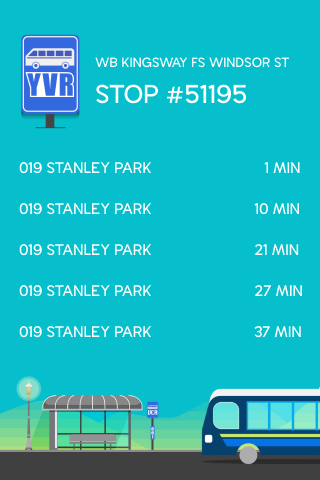
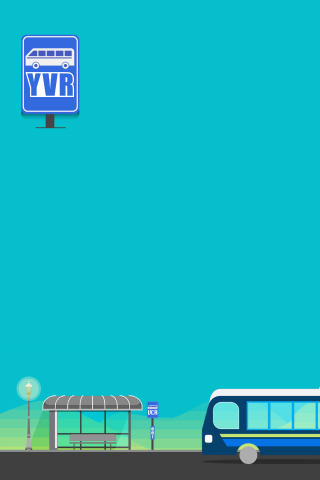
BusStopClient WIP

diff --git a/Source/MeadowSamples/BusStopClient/MeadowApp.cs b/Source/MeadowSamples/BusStopClient/MeadowApp.cs
@@ -1,13 +1,17 @@
-using Meadow;
+using BusStopClient.Models;
+using BusStopClient.Services;
+using Meadow;
 using Meadow.Devices;
 using Meadow.Foundation;
-using Meadow.Foundation.Displays.TftSpi;
+using Meadow.Foundation.Displays;
 using Meadow.Foundation.Graphics;
 using Meadow.Foundation.Leds;
+using Meadow.Gateway.WiFi;
 using Meadow.Hardware;
 using Meadow.Units;
 using SimpleJpegDecoder;
 using System;
+using System.Collections.Generic;
 using System.IO;
 using System.Reflection;
 using System.Threading.Tasks;
@@ -18,19 +22,32 @@ namespace BusStopClient
     public class MeadowApp : App<F7FeatherV1>
     {
         MicroGraphics graphics;
+        Font12x20 large;
+        Font8x12 medium;
+
+        Color dayBackground = Color.FromHex("06BFCC");
+        Color darkFont = Color.FromHex("06416C");
 
         string[] images = new string[1]
         {
             "mystop.jpg"
         };
 
-        public override Task Initialize()
+        public override async Task Initialize()
         {
             var onboardLed = new RgbPwmLed(device: Device,
                 redPwmPin: Device.Pins.OnboardLedRed,
                 greenPwmPin: Device.Pins.OnboardLedGreen,
                 bluePwmPin: Device.Pins.OnboardLedBlue);
             onboardLed.SetColor(Color.Red);
+
+            var wifi = Device.NetworkAdapters.Primary<IWiFiNetworkAdapter>();
+
+            var connectionResult = await wifi.Connect(Secrets.WIFI_NAME, Secrets.WIFI_PASSWORD, TimeSpan.FromSeconds(45));
+            if (connectionResult.ConnectionStatus != ConnectionStatus.Success)
+            {
+                throw new Exception($"Cannot connect to network: {connectionResult.ConnectionStatus}");
+            }
 
             var config = new SpiClockConfiguration(
                 new Frequency(12000, Frequency.UnitType.Kilohertz),
@@ -53,20 +70,79 @@ namespace BusStopClient
                 CurrentFont = new Font8x8()
             };
 
-            onboardLed.SetColor(Color.Green);
+            large = new Font12x20();
+            medium = new Font8x12();
 
-            return base.Initialize();
+            onboardLed.SetColor(Color.Green);
         }
 
-        public override Task Run()
+        public override async Task Run()
         {
             Console.WriteLine("Run");
 
+            DrawBackgroundAndStopInfo();
+
+            while (true) 
+            {
+                Console.WriteLine("Simulate");
+
+                var arrivals = await BusService.Instance.GetSchedulesAsync("51195");
+                DrawBusArrivals(arrivals);
+
+                await Task.Delay(TimeSpan.FromSeconds(10));
+            }
+            
+        }
+
+        void DrawBackgroundAndStopInfo() 
+        {
             DisplayJPG(0, 0, images[0]);
 
-            graphics.Show();
+            graphics.CurrentFont = medium;
 
-            return base.Run();
+            graphics.DrawText(95, 50, "WB KINGSWAY FS WINDSOR ST", darkFont);
+            graphics.DrawText(95, 85, "STOP #51195", darkFont, ScaleFactor.X2);
+
+            graphics.Show();
+        }
+
+        void DrawBusArrivals(List<Schedule> arrivals) 
+        {
+            graphics.CurrentFont = large;
+
+            graphics.DrawRectangle(15, 160, 290, 180, dayBackground, true);
+
+            if (arrivals[0] != null)
+            {
+                graphics.DrawText(15, 160, $"019 {arrivals[0].Destination}", darkFont);
+                graphics.DrawText(305, 160, $"{arrivals[0].ExpectedCountdown} MIN", darkFont, alignment: TextAlignment.Right);
+            }
+
+            if (arrivals[1] != null)
+            {
+                graphics.DrawText(15, 200, $"019 {arrivals[1].Destination}", darkFont);
+                graphics.DrawText(305, 200, $"{arrivals[1].ExpectedCountdown} MIN", darkFont, alignment: TextAlignment.Right);
+            }
+
+            if (arrivals[2] != null)
+            {
+                graphics.DrawText(15, 240, $"019 {arrivals[2].Destination}", darkFont);
+                graphics.DrawText(305, 240, $"{arrivals[2].ExpectedCountdown} MIN", darkFont, alignment: TextAlignment.Right);
+            }
+
+            if (arrivals[3] != null)
+            {
+                graphics.DrawText(15, 280, $"019 {arrivals[3].Destination}", darkFont);
+                graphics.DrawText(305, 280, $"{arrivals[3].ExpectedCountdown} MIN", darkFont, alignment: TextAlignment.Right);
+            }
+
+            if (arrivals[4] != null)
+            {
+                graphics.DrawText(15, 320, $"019 {arrivals[4].Destination}", darkFont);
+                graphics.DrawText(305, 320, $"{arrivals[4].ExpectedCountdown} MIN", darkFont, alignment: TextAlignment.Right);
+            }
+
+            graphics.Show();
         }
 
         void DisplayJPG(int x, int y, string filename)

diff --git a/Source/MeadowSamples/BusStopClient/Services/BusService.cs b/Source/MeadowSamples/BusStopClient/Services/BusService.cs
@@ -1,0 +1,105 @@
+using System;
+using System.Collections.Generic;
+using System.Diagnostics;
+using System.Net.Http.Headers;
+using System.Net.Http;
+using System.Text;
+using System.Threading.Tasks;
+using BusStopClient.Models;
+using System.Text.Json;
+
+namespace BusStopClient.Services
+{
+    public sealed class BusService
+    {
+        private const string RestServiceBaseAddress = "https://api.translink.ca/RTTIAPI/V1/stops/";
+        private const string AcceptHeaderApplicationJson = "application/json";
+        private const string API_KEY = "[API KEY]";
+        private HttpClient client;
+
+        static BusService _instance = null;
+        public static BusService Instance
+        {
+            get
+            {
+                if (_instance == null)
+                {
+                    _instance = new BusService();
+                }
+                return _instance;
+            }
+        }
+
+        private BusService()
+        {
+            client = new HttpClient();
+            //client.DefaultRequestHeaders.Accept.Add(MediaTypeWithQualityHeaderValue.Parse(AcceptHeaderApplicationJson));
+        }
+
+        public async Task<List<Schedule>> SimulateCall() 
+        { 
+            var arrivals = new List<Schedule>();
+
+            await Task.Delay(1000);
+
+            arrivals.Add(new Schedule() { Destination = "STANLEY PARK", ExpectedCountdown = 5 });
+            arrivals.Add(new Schedule() { Destination = "STANLEY PARK", ExpectedCountdown = 15 });
+            arrivals.Add(new Schedule() { Destination = "STANLEY PARK", ExpectedCountdown = 25 });
+            arrivals.Add(new Schedule() { Destination = "STANLEY PARK", ExpectedCountdown = 35 });
+            arrivals.Add(new Schedule() { Destination = "STANLEY PARK", ExpectedCountdown = 45 });
+
+            return arrivals;
+        }
+
+        public async Task<List<Schedule>> GetSchedulesAsync(string busNumber)
+        {
+            var schedules = new List<Schedule>();
+            string jsonResponse = string.Empty;
+
+            try
+            {
+                HttpResponseMessage response = await client.GetAsync($"{RestServiceBaseAddress}{busNumber}/estimates?apiKey={API_KEY}");
+
+                response.EnsureSuccessStatusCode();
+                jsonResponse = await response.Content.ReadAsStringAsync();
+                Debug.WriteLine("::RESTCLIENT::GET_SCHEDULES_INFO = " + jsonResponse);
+            }
+            catch (HttpRequestException e)
+            {
+                Console.WriteLine("CAUGHT EXCEPTION: " + e.Message);
+            }
+            catch (Exception e)
+            {
+                Console.WriteLine("CAUGHT EXCEPTION: " + e.Message);
+            }
+
+            if (string.IsNullOrEmpty(jsonResponse))
+                return schedules;
+
+            //try
+            //{
+            //    var nextBuses = JsonSerializer.Deserialize<List<NextBus>>(jsonResponse);
+
+            //    foreach (var nextBus in nextBuses)
+            //    {
+            //        foreach (var schedule in nextBus.Schedules)
+            //        {
+            //            Schedule scheduleItem = new Schedule();
+            //            //scheduleItem.RouteNo = nextBus.RouteNo;
+            //            scheduleItem.Destination = schedule.Destination;
+            //            scheduleItem.ExpectedCountdown = schedule.ExpectedCountdown;
+            //            scheduleItem.ScheduleStatus = schedule.ScheduleStatus;
+            //            schedules.Add(scheduleItem);
+            //        }
+            //    }
+            //    schedules.Sort((b0, b1) => b0.ExpectedCountdown.CompareTo(b1.ExpectedCountdown));
+            //}
+            //catch (Exception ex)
+            //{
+            //    Debug.WriteLine("CAUGHT EXCEPTION: " + ex);
+            //}
+
+            return schedules;
+        }
+    }
+}

diff --git a/Source/MeadowSamples/BusStopClient/Models/CommonModels.cs b/Source/MeadowSamples/BusStopClient/Models/CommonModels.cs
@@ -1,0 +1,41 @@
+using System.Collections.ObjectModel;
+
+namespace BusStopClient.Models
+{
+    public class Stop
+    {
+        public string StopNo { get; set; }
+        public string Name { get; set; }
+        public string BayNo { get; set; }
+        public string City { get; set; }
+        public string OnStreet { get; set; }
+        public string AtStreet { get; set; }
+        public string Latitude { get; set; }
+        public string Longitude { get; set; }
+        public string WheelchairAccess { get; set; }
+        public string Distance { get; set; }
+        public string Routes { get; set; }
+    }
+
+    public class Schedule
+    {
+        public string Pattern { get; set; }
+        public string Destination { get; set; }
+        public string ExpectedLeaveTime { get; set; }
+        public int ExpectedCountdown { get; set; }
+        public string ScheduleStatus { get; set; }
+        public bool CancelledTrip { get; set; }
+        public bool CancelledStop { get; set; }
+        public bool AddedTrip { get; set; }
+        public bool AddedStop { get; set; }
+        public string LastUpdate { get; set; }
+    }
+
+    public class NextBus
+    {
+        public string RouteNo { get; set; }
+        public string RouteName { get; set; }
+        public string Direction { get; set; }
+        public ObservableCollection<Schedule> Schedules { get; set; }
+    }
+}

diff --git a/Source/MeadowSamples/BusStopClient/Secrets.cs b/Source/MeadowSamples/BusStopClient/Secrets.cs
@@ -1,0 +1,15 @@
+namespace BusStopClient
+{
+    public class Secrets
+    {
+        /// <summary>
+        /// Name of the WiFi network to use.
+        /// </summary>
+        public const string WIFI_NAME = "[SSID]";
+
+        /// <summary>
+        /// Password for the WiFi network names in WIFI_NAME.
+        /// </summary>
+        public const string WIFI_PASSWORD = "[PASSWORD]";
+    }
+}

diff --git a/Source/MeadowSamples/I2cSpiAnalogTemperature_Sample/MeadowApp.cs b/Source/MeadowSamples/I2cSpiAnalogTemperature_Sample/MeadowApp.cs
@@ -1,8 +1,7 @@
 using Meadow;
 using Meadow.Devices;
 using Meadow.Foundation;
-using Meadow.Foundation.Displays.Ssd130x;
-using Meadow.Foundation.Displays.TftSpi;
+using Meadow.Foundation.Displays;
 using Meadow.Foundation.Graphics;
 using Meadow.Foundation.Leds;
 using Meadow.Foundation.Sensors.Temperature;

diff --git a/Source/MeadowSamples/TwitterClient/MeadowApp.cs b/Source/MeadowSamples/TwitterClient/MeadowApp.cs
@@ -1,7 +1,7 @@
 using Meadow;
 using Meadow.Devices;
 using Meadow.Foundation;
-using Meadow.Foundation.Displays.TftSpi;
+using Meadow.Foundation.Displays;
 using Meadow.Foundation.Graphics;
 using Meadow.Foundation.Leds;
 using Meadow.Hardware;
